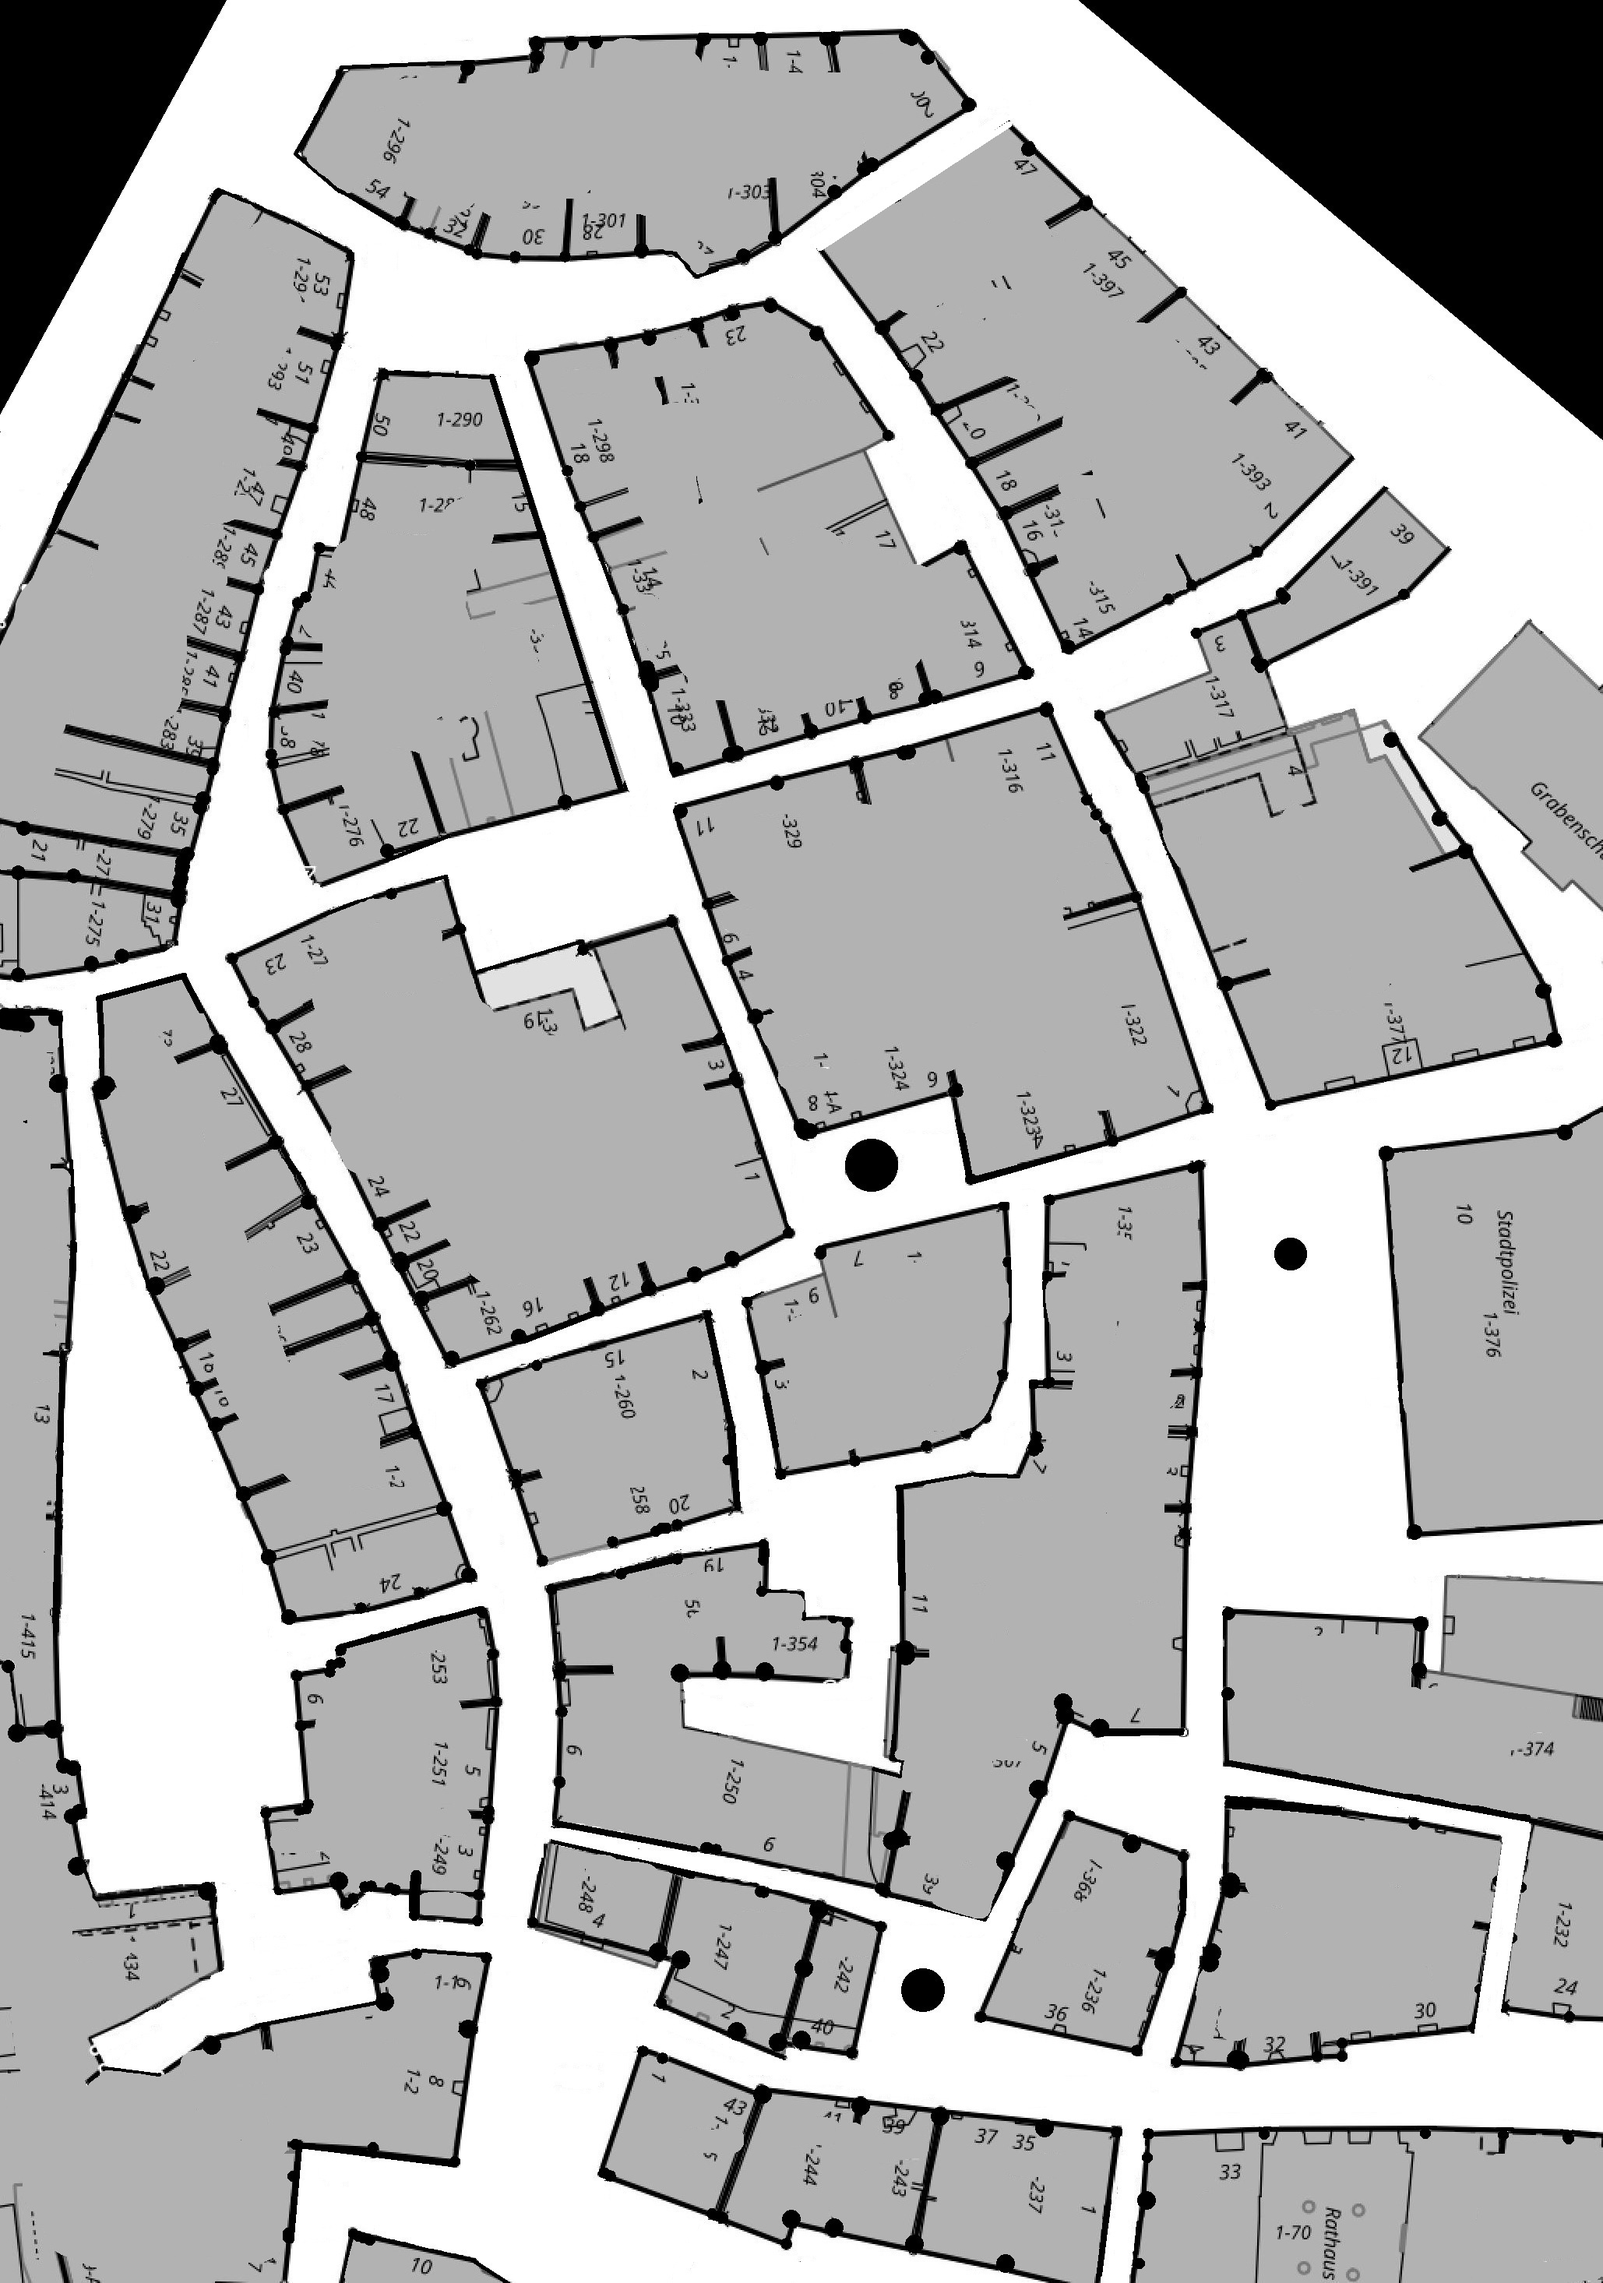
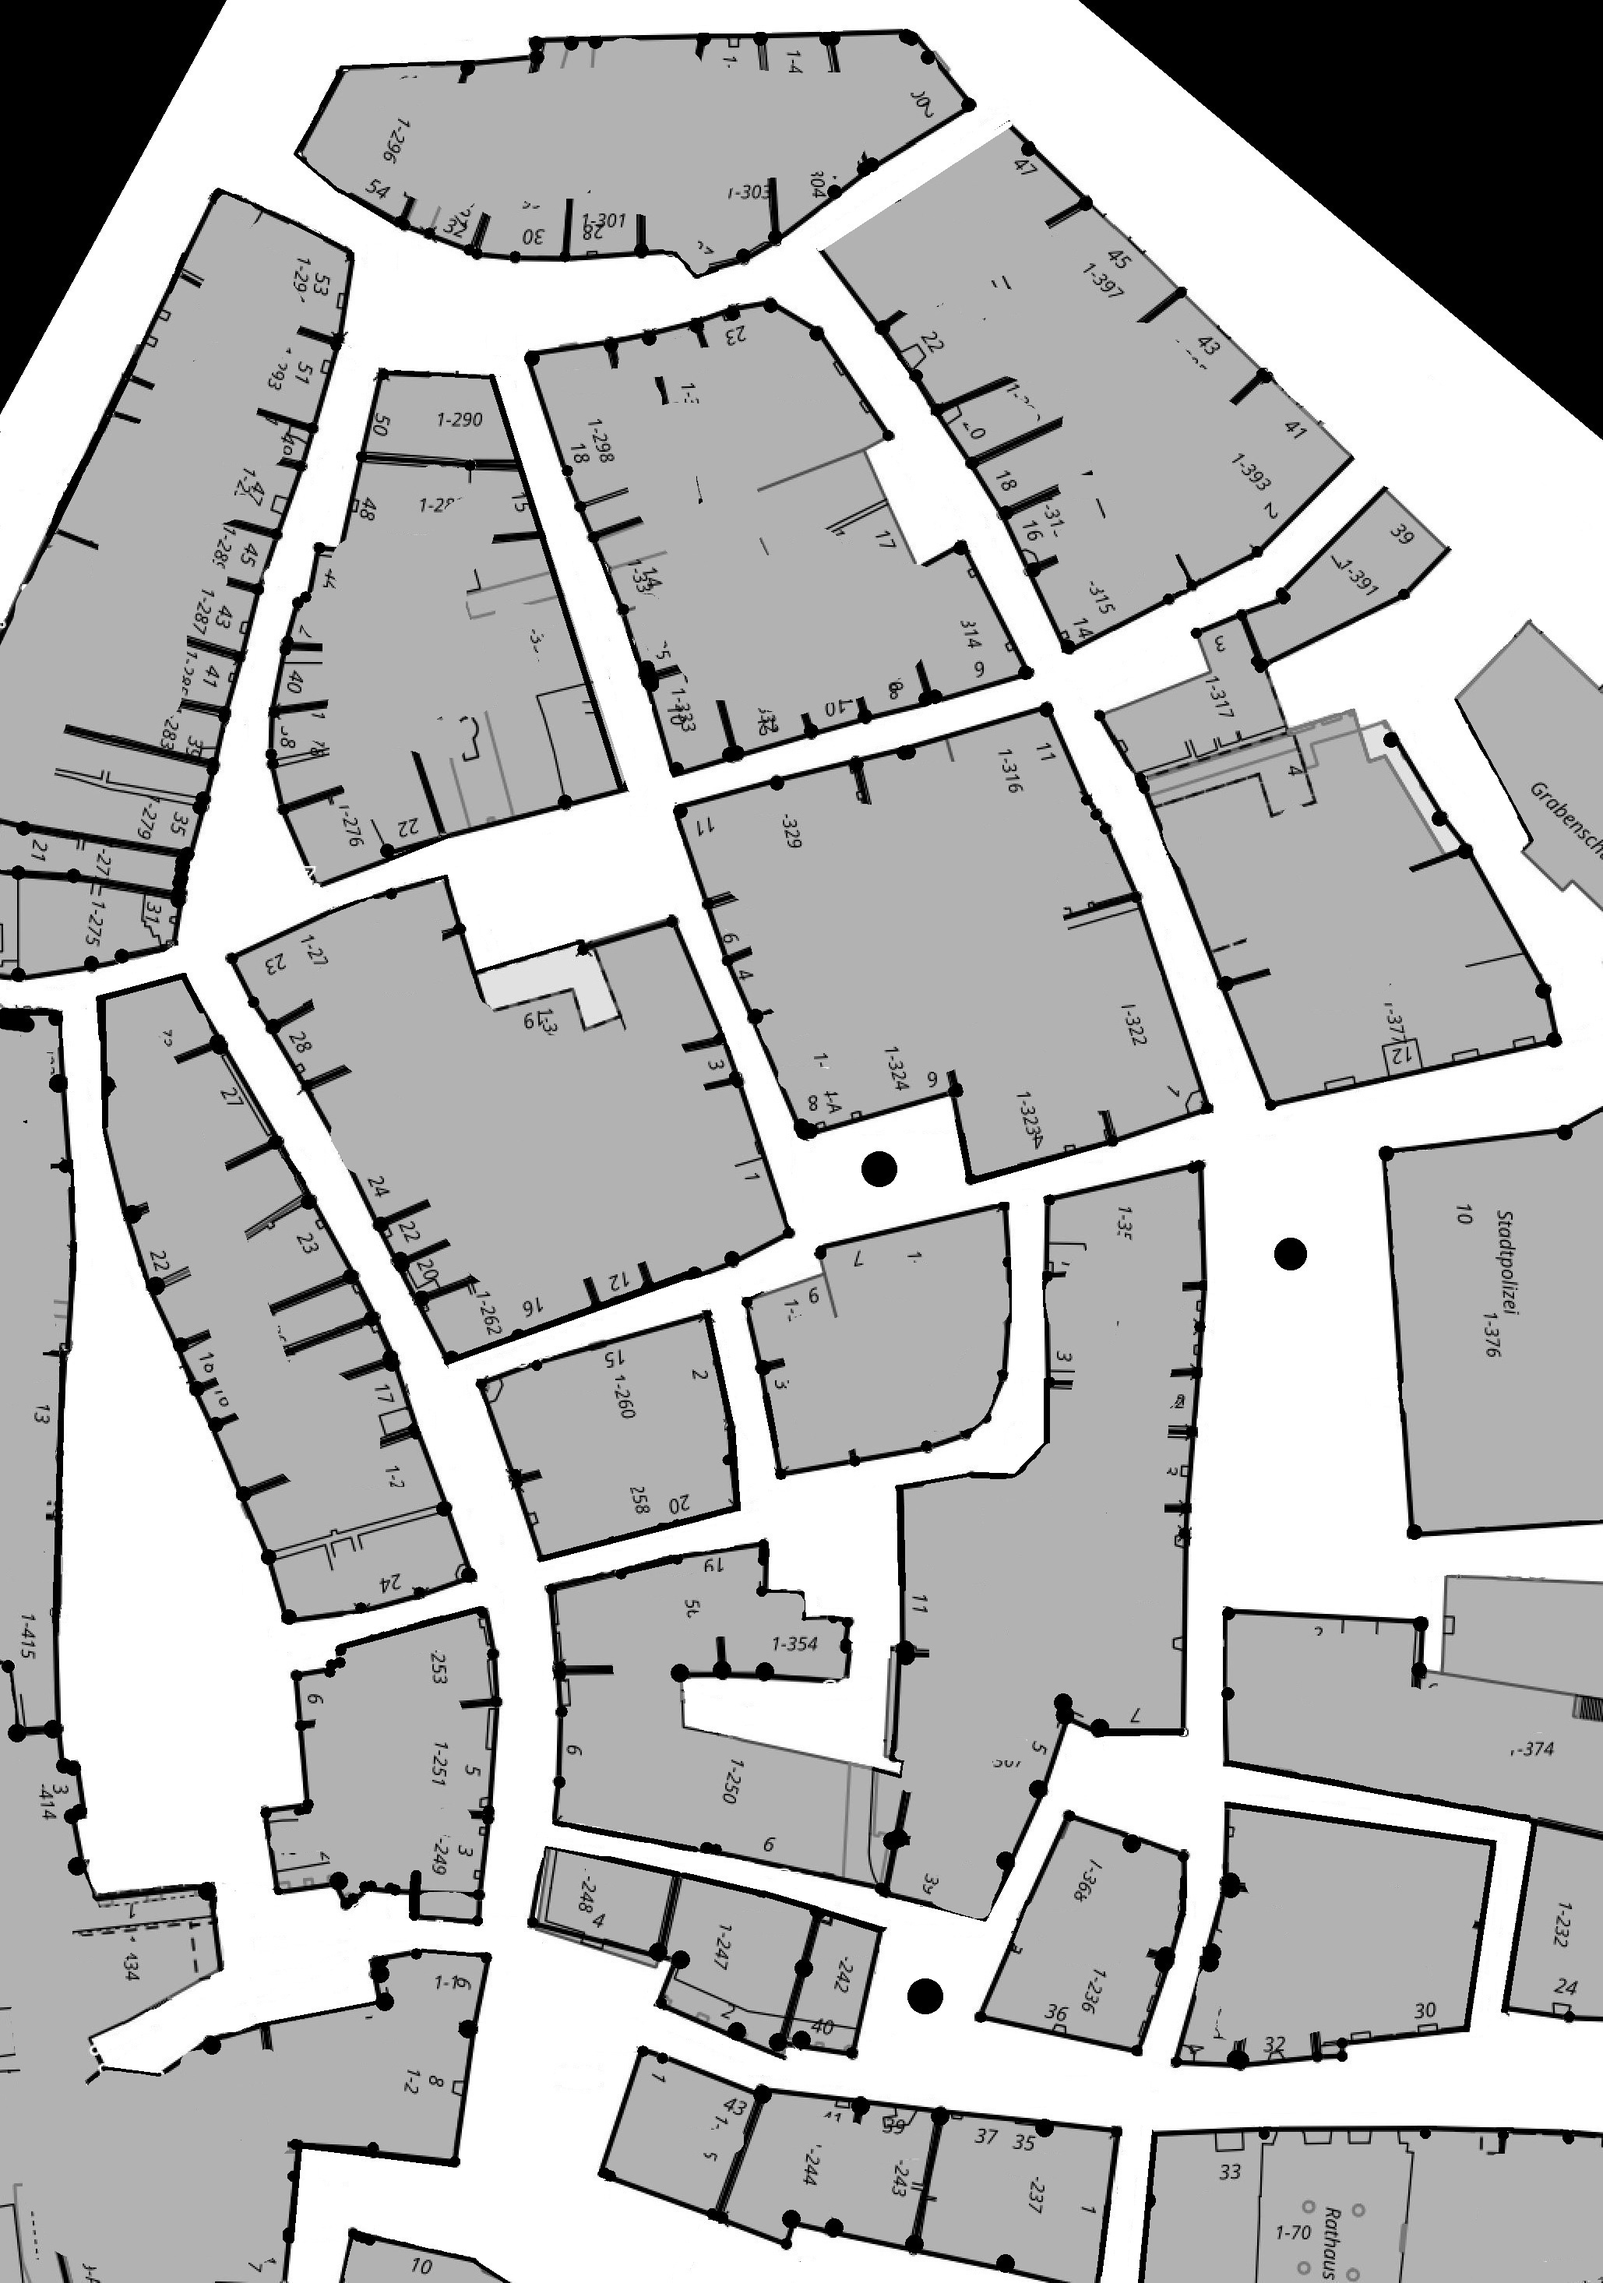
alle waypoints gesetzt

diff --git a/map_transformation/transform_jpg2Matrix.py b/map_transformation/transform_jpg2Matrix.py
@@ -37,7 +37,7 @@ def analyze_image_brightness_grid(image_path, cell_size=10, threshold=230):
 
 def plot_matrix(matrix):
     #wall, path, waypoint, marker
-    colors = ["black", "white", "red", "green"]
+    colors = ["black", "white", "red"]
     cmap = ListedColormap(colors)
     plt.imshow(matrix, cmap=cmap, interpolation='nearest')
     plt.axis('off')
@@ -55,7 +55,6 @@ def addPoint(matrix, x, y, pointsize = 2, pointvalue = 2):
     for i in range(pointsize):
         for j in range(pointsize):
             matrix[y+i][x+j] = pointvalue
-
     return matrix
 
 def addMarkers(matrix):
@@ -73,7 +72,7 @@ print(matrix.shape)
 
 
 # Add Waypoints
-matrix = addMarkers(matrix)
+#matrix = addMarkers(matrix)
 matrix = addWaypoints(matrix)
 
 # Anwendung
